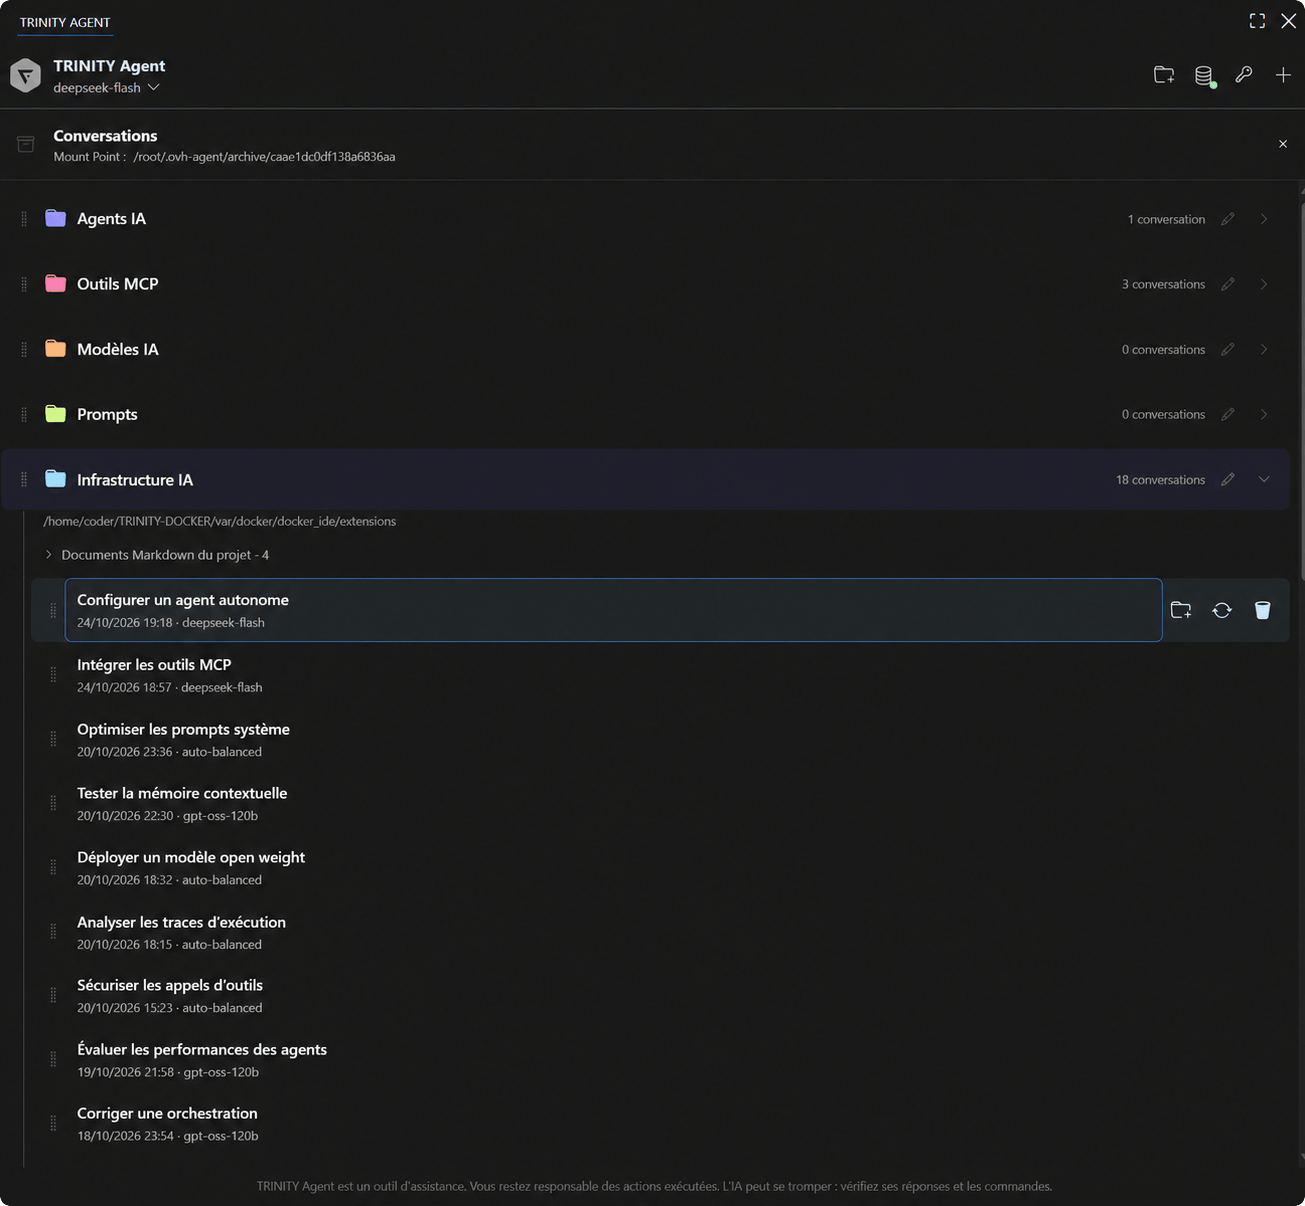
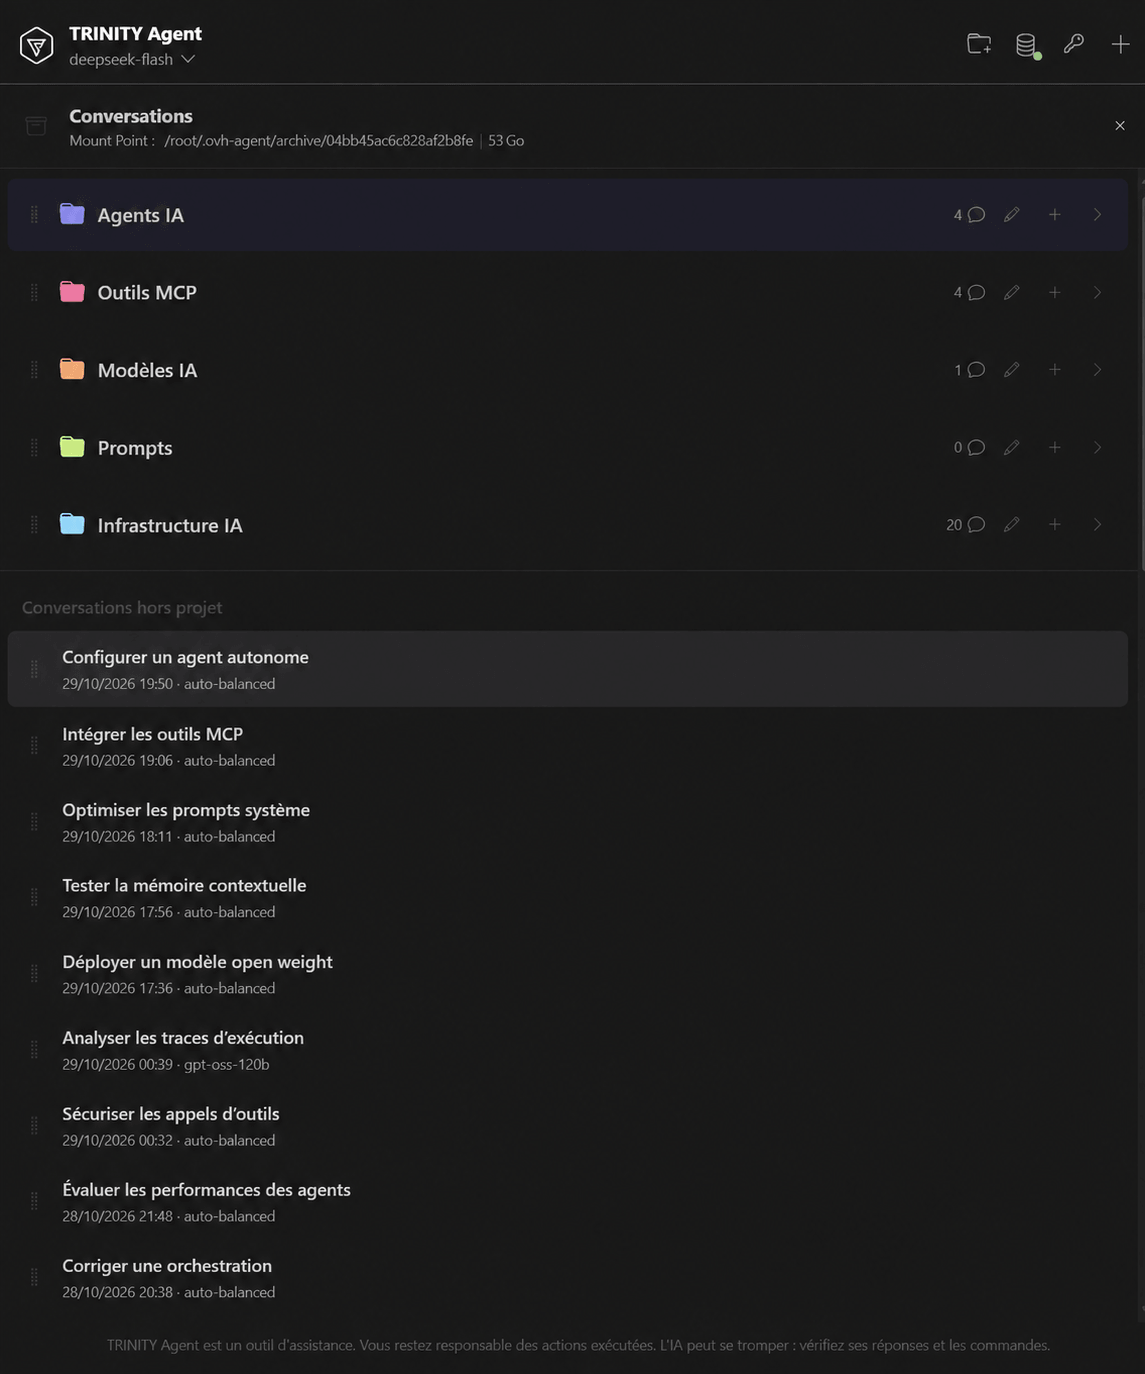
Refresh README preview (1.17.91)

diff --git a/ovh-agent-extension/extension/CHANGELOG.md b/ovh-agent-extension/extension/CHANGELOG.md
@@ -1,5 +1,9 @@
 # Changelog
 
+## 1.17.91
+
+- Refresh the README and Marketplace preview with the current TRINITY Agent conversation screen.
+
 ## 1.17.90
 
 - Keep the chat-icon project counters covered by the complete drag-and-drop test suite.
